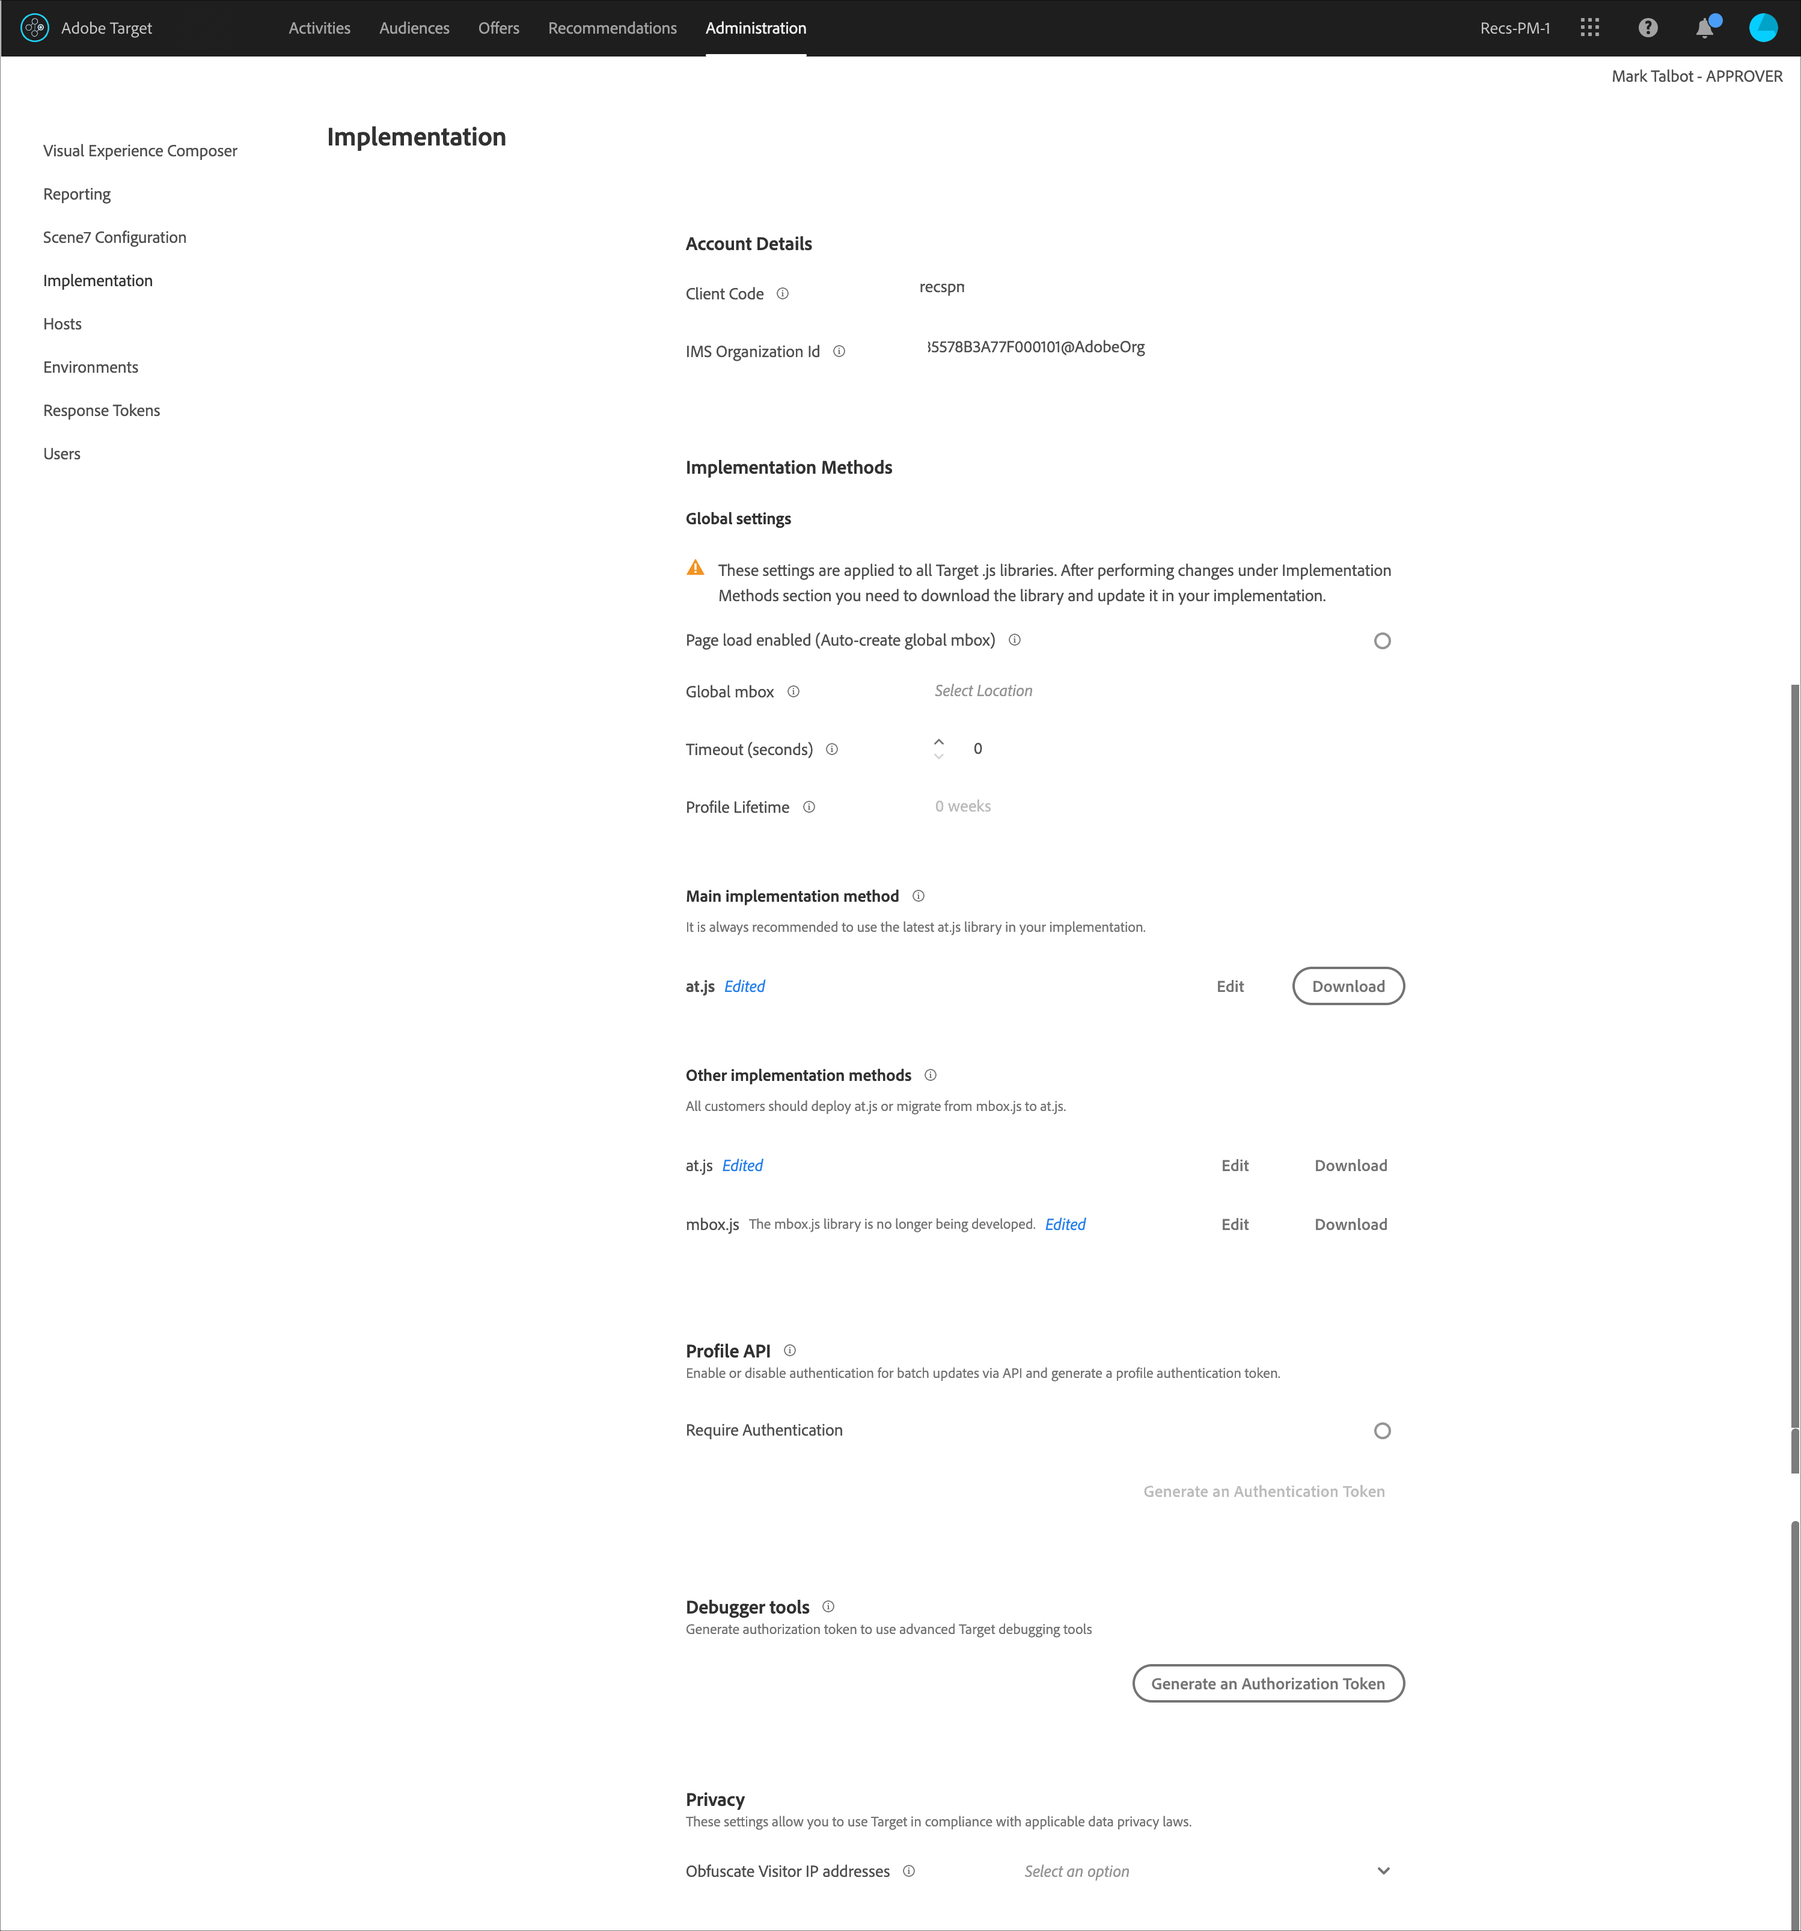
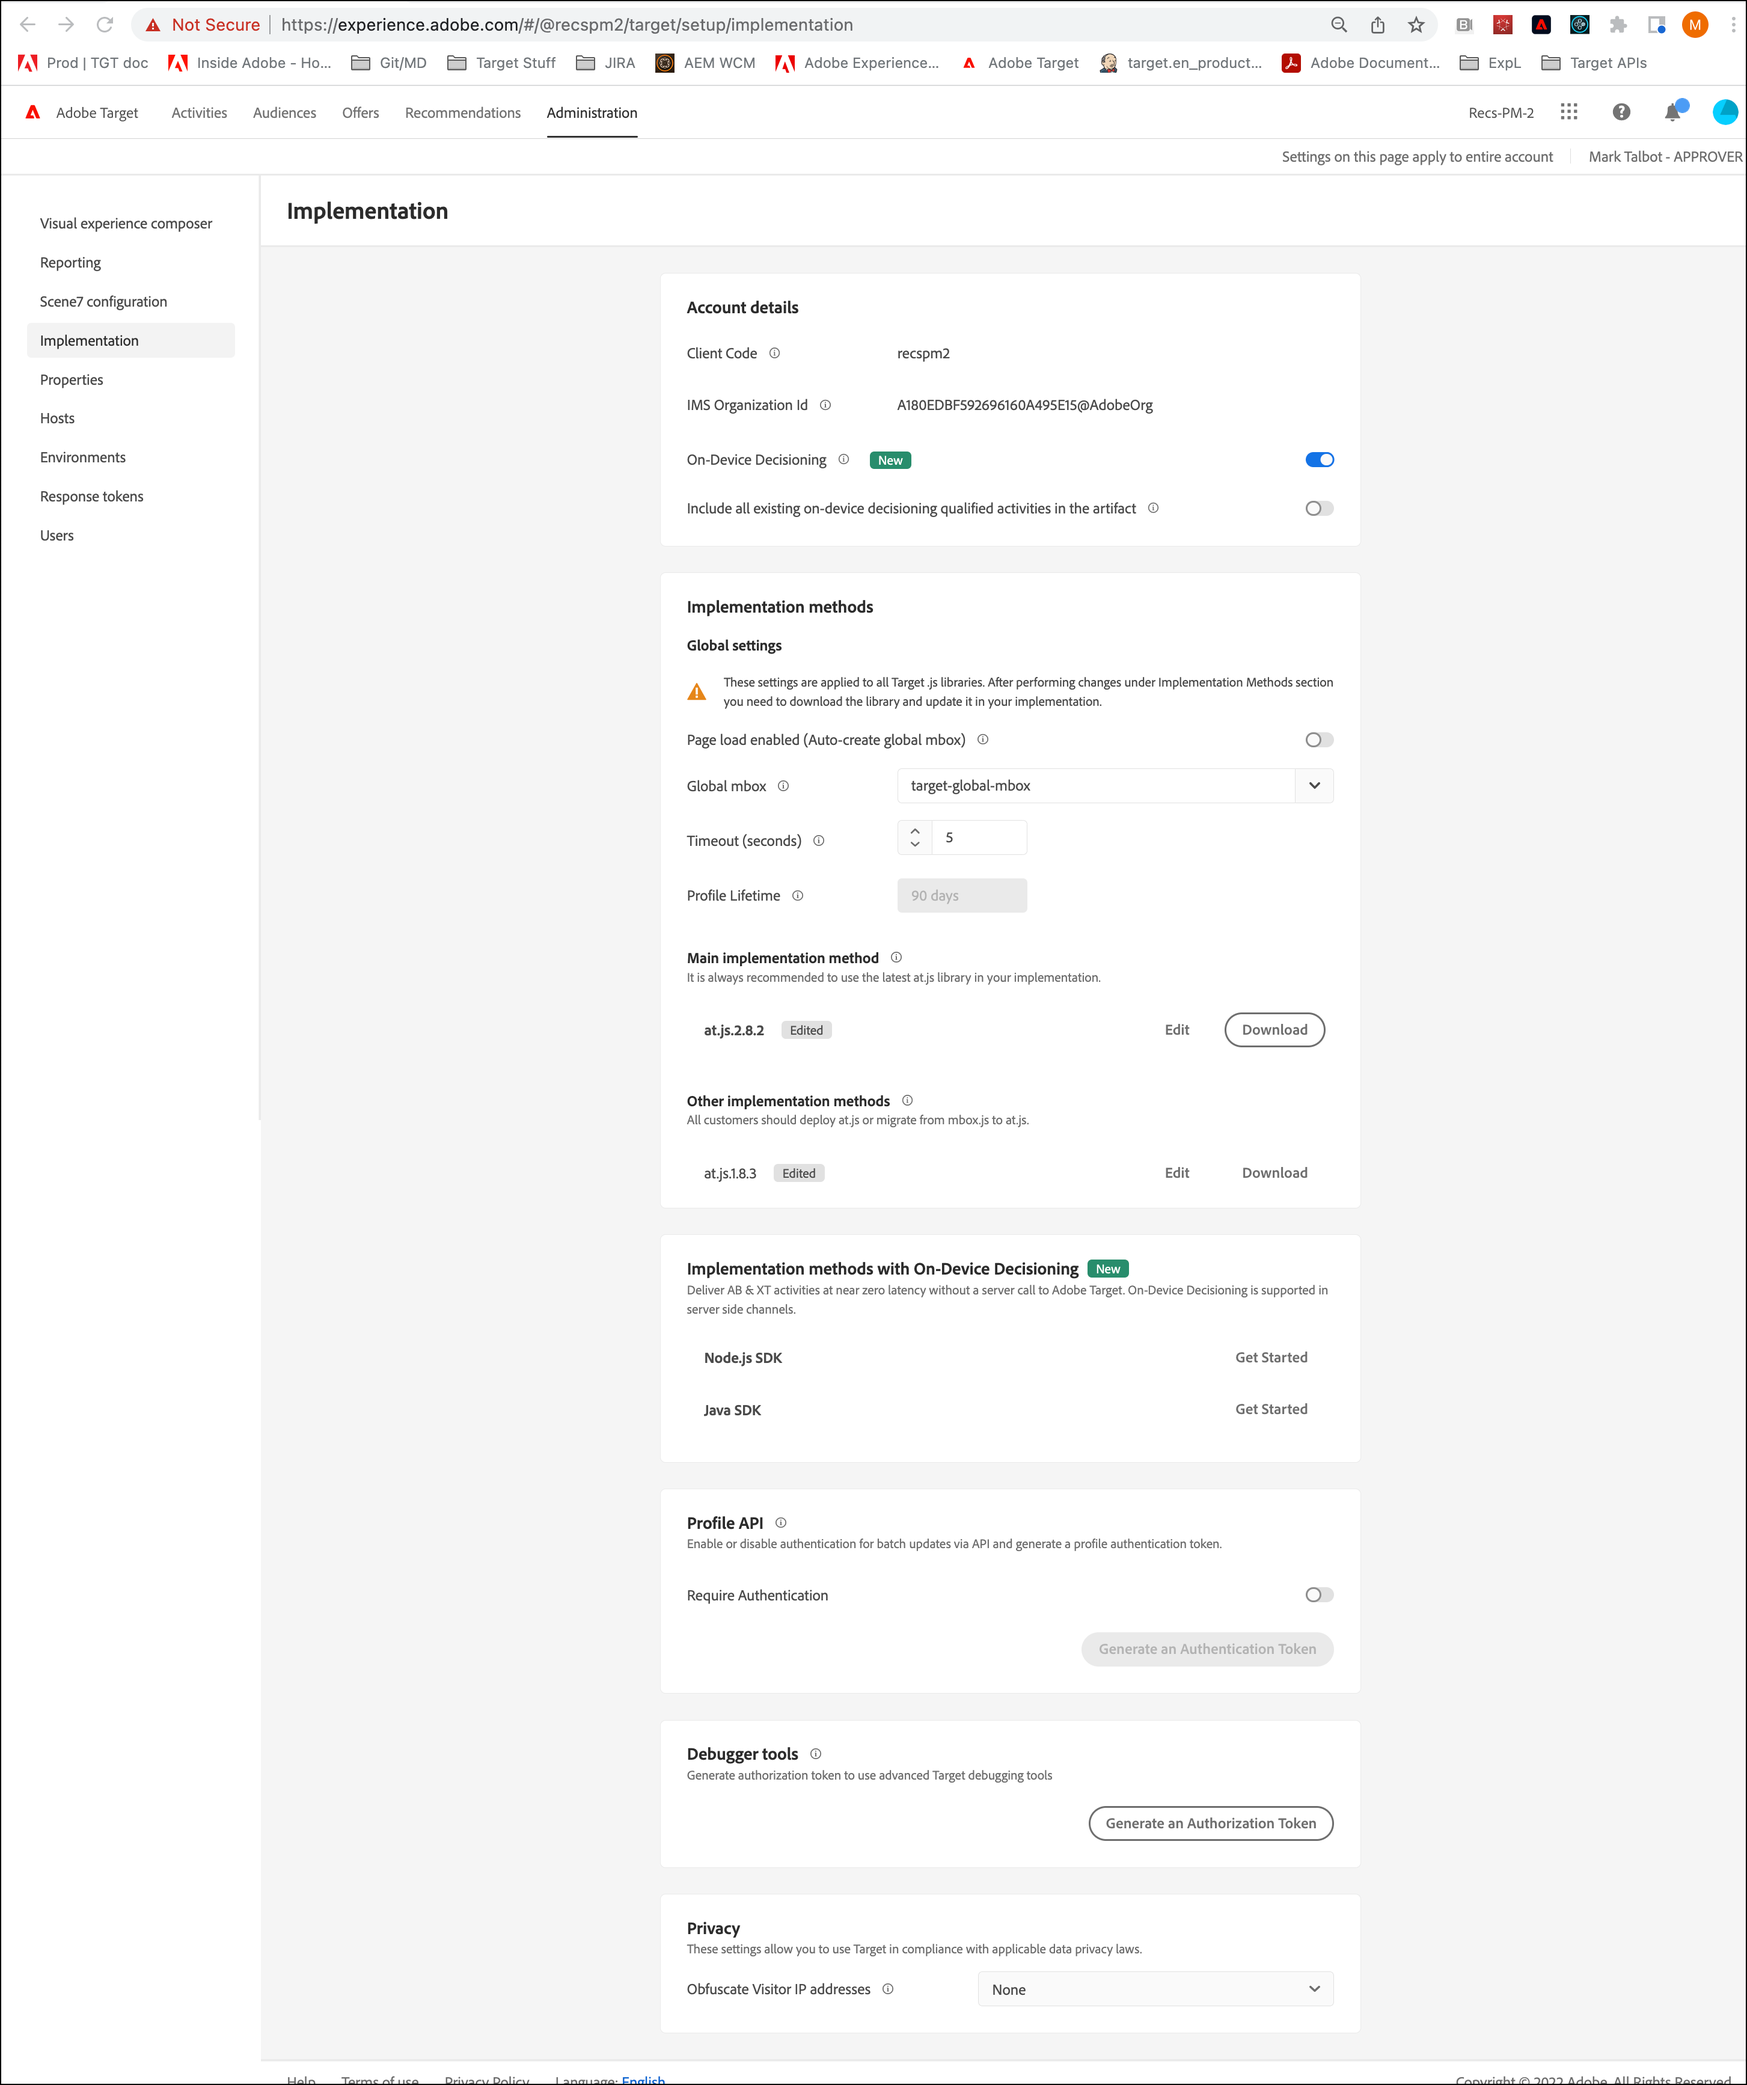
Update implementation and ODD

diff --git a/help/main/c-implementing-target/c-implementing-target-for-client-side-web/how-to-deployatjs/implementing-target-without-a-tag-manager.md b/help/main/c-implementing-target/c-implementing-target-for-client-side-web/how-to-deployatjs/implementing-target-without-a-tag-manager.md
@@ -77,6 +77,19 @@ In addition to the settings explained above, the following specific at.js settin
 |Custom Library Header|Add any custom JavaScript to include at the top of the library.|
 |Custom Library Footer|Add any custom JavaScript to include at the bottom of the library.|
 
+### Implementation methods with On-Device Decisioning
+
+Starting with version 2.5.0, at.js offers on-device decisioning. On-device decisioning lets you cache your [A/B Test](/help/main/c-activities/t-test-ab/test-ab.md) and [Experience Targeting](/help/main/c-activities/t-experience-target/experience-target.md) (XT) activities on the browser to perform in-memory decisioning without a blocking network request to the [!DNL Adobe Target] Edge Network. 
+
+For more information, see:
+
+* Client-side: [On-device decisioning for at.js](/main/c-implementing-target/c-implementing-target-for-client-side-web/on-device-decisioning/on-device-decisioning.md)
+* Server-side: [On-device decisioning](/main/c-implementing-target/c-api-and-sdk-overview/on-device-decisioning.md){target=_blank}
+* Node.js: [Enable On-Device Decisioning for your organization](https://adobetarget-sdks.gitbook.io/docs/getting-started/node.js){target=_blank}
+* Java: [Enable On-Device Decisioning for your organization](https://adobetarget-sdks.gitbook.io/docs/getting-started/java){target=_blank}
+* .NET: [Enable On-Device Decisioning for your organization](https://adobetarget-sdks.gitbook.io/docs/getting-started/dotnet){target=_blank}
+* Python: [Enable On-Device Decisioning for your organization](https://adobetarget-sdks.gitbook.io/docs/getting-started/python){target=_blank}
+
 ### Profile API
 
 Enable or disable authentication for batch updates via API and generate a profile authentication token.
